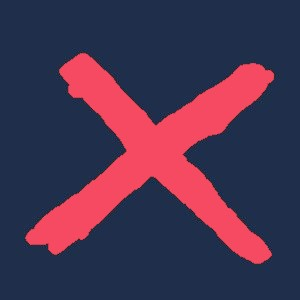
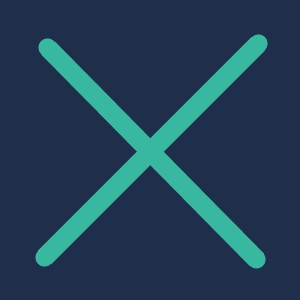
updates nought and cross images to new style

Changed region(s): [[0.06, 0.09, 0.93, 0.9]]

diff --git a/Javascipt/model.js b/Javascipt/model.js
@@ -5,9 +5,6 @@ const NOUGHT_PATH = "img/noughtImage.jpg";
 const CROSS_PATH = "img/crossImage.jpg";
 const BLANK_PATH = "img/blankSquare.jpg";
 
-const CROSS_TURN = "img/crossImageTurn.jpg";
-const NOUGHT_TURN = "img/noughtImageTurn.jpg";
-
 const gameOver = (player, board) => {
   if (
     (board[0] === player && board[1] === player && board[2] === player) ||
@@ -78,8 +75,8 @@ const model = {
     computerPath: CROSS_PATH,
     playerPath: NOUGHT_PATH,
     blankPath: BLANK_PATH,
-    playerPathTurn: NOUGHT_TURN,
-    computerPathTurn: CROSS_TURN,
+    playerPathTurn: NOUGHT_PATH,
+    computerPathTurn: CROSS_PATH,
     currentlyPlaying: false,
   },
 

diff --git a/index.html b/index.html
@@ -34,13 +34,13 @@
                     <img
                       id="nought"
                       class="game__selector game__selector--active"
-                      src="../img/noughtImageChoose.jpg"
+                      src="../img/noughtImage.jpg"
                       alt="Nought image"
                     />
                     <img
                       id="cross"
                       class="game__selector"
-                      src="../img/crossImageChoose.jpg"
+                      src="../img/crossImage.jpg"
                       alt="Cross image"
                     />
                   </div>

diff --git a/css/style.css b/css/style.css
@@ -204,7 +204,7 @@ body {
 
 .game__selector {
   margin-left: 0.75rem;
-  width: 15rem;
+  width: 5rem;
   padding: 0.5rem;
   border-radius: 1rem;
   cursor: pointer; }
@@ -339,7 +339,7 @@ body {
 
 .flipcard {
   width: 75vw;
-  max-width: 110rem;
+  max-width: 90rem;
   height: 90vh;
   max-height: 120rem;
   perspective: 6000px;

diff --git a/sass/_game.scss b/sass/_game.scss
@@ -29,7 +29,7 @@
 
   &__selector {
     margin-left: 0.75rem;
-    width: 15rem;
+    width: 5rem;
     padding: 0.5rem;
     border-radius: 1rem;
     cursor: pointer;

diff --git a/sass/_flipcard.scss b/sass/_flipcard.scss
@@ -1,6 +1,6 @@
 .flipcard {
   width: 75vw;
-  max-width: 110rem;
+  max-width: 90rem;
   height: 90vh;
   max-height: 120rem;
   perspective: 6000px;

diff --git a/Javascipt/controller.js b/Javascipt/controller.js
@@ -1,4 +1,3 @@
-//fix animation issue
 //restyle noughts and crosses
 //move model code into computer js file?
 
